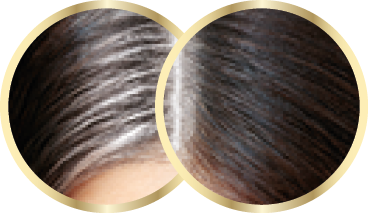
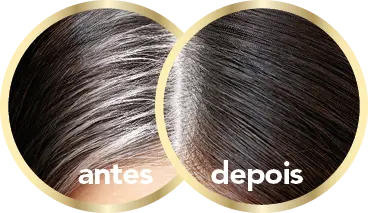
change: before after to webp

diff --git a/src/components/retoque.tsx b/src/components/retoque.tsx
@@ -47,7 +47,7 @@ export const Retoque = () => {
           </ul>
           <img
             className="max-w-[160px] md:max-w-[300px] w-full mt-10"
-            src="/assets/images/retoque/before-after.png"
+            src="/assets/images/retoque/before-after.webp"
             alt="Imagem do antes e depois"
           />
         </div>
